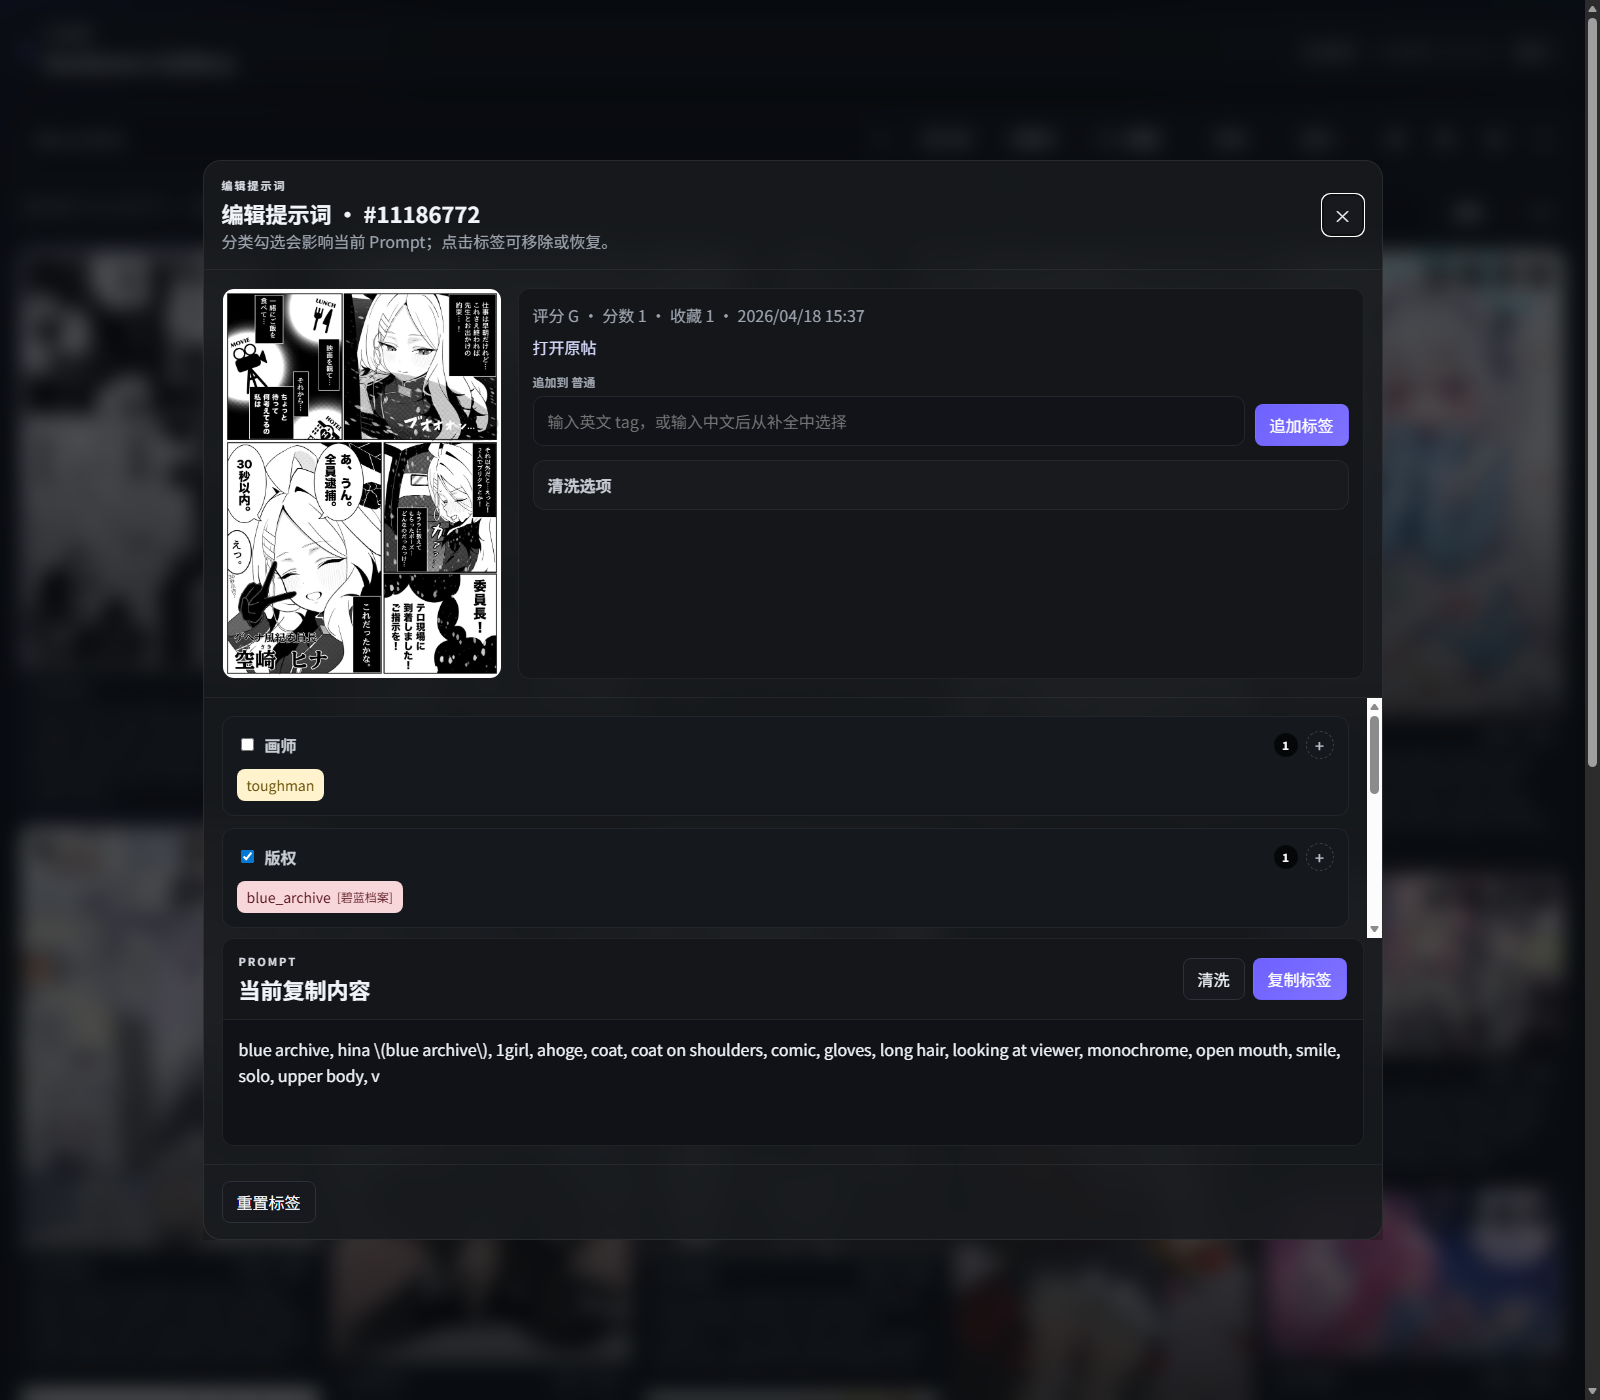
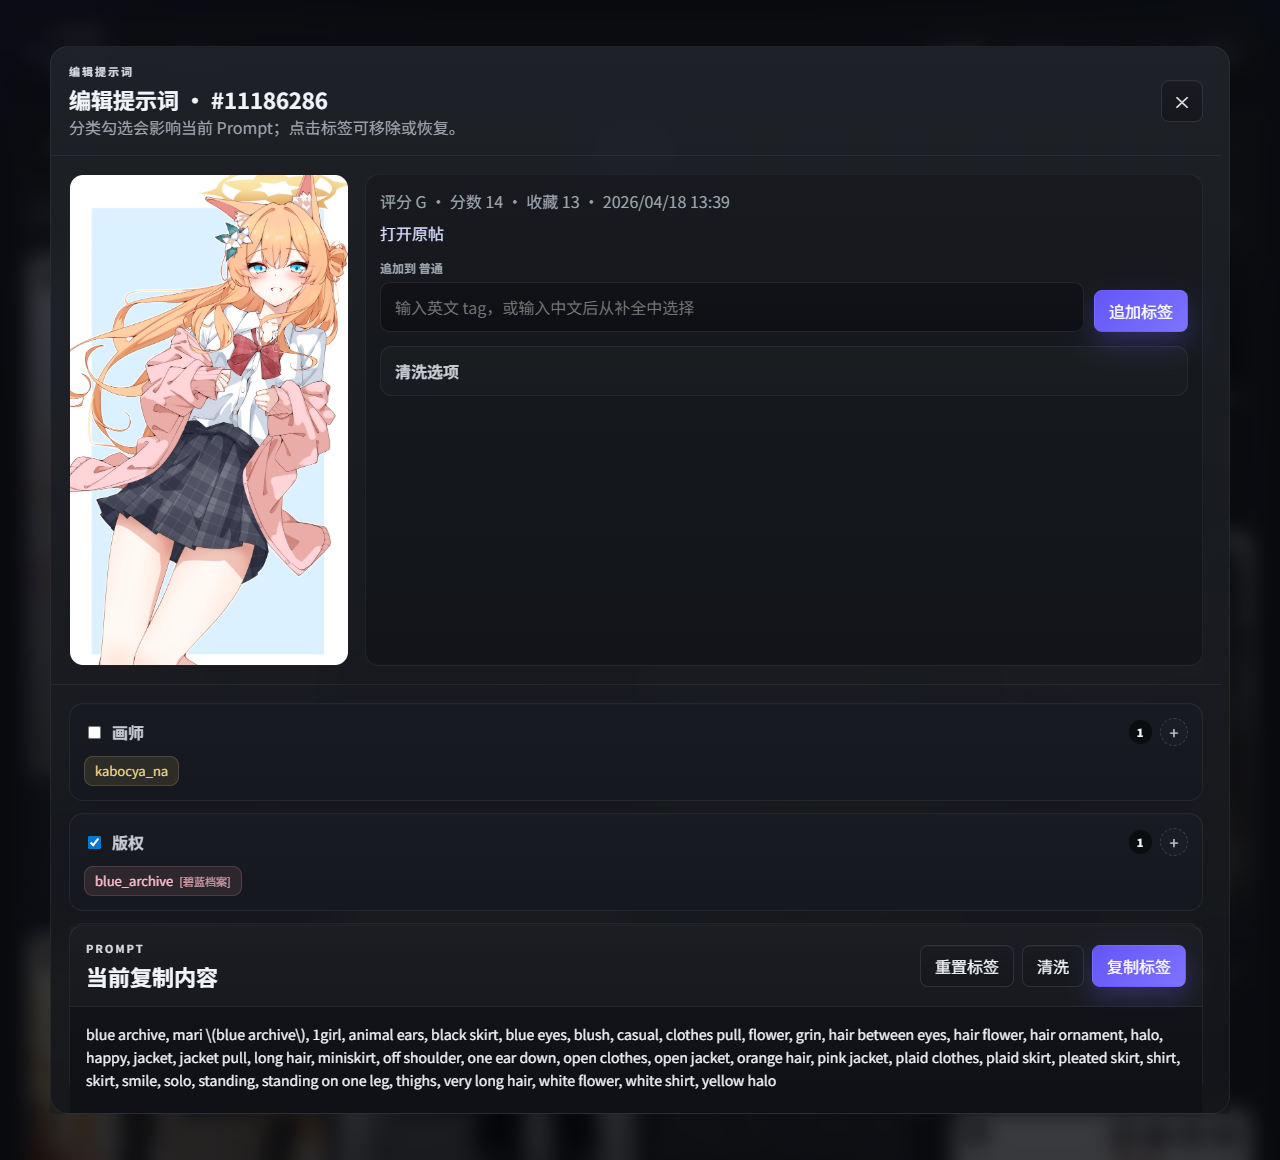
Polish UI and refresh screenshots

diff --git a/app/static/styles.css b/app/static/styles.css
@@ -5,9 +5,13 @@
     --panel-strong: #202328;
     --panel-soft: #17191d;
     --panel-border: #2d3138;
+    --panel-border-soft: rgba(255, 255, 255, 0.06);
+    --panel-border-strong: rgba(255, 255, 255, 0.11);
     --text: #f1f4f8;
     --muted: #9ea5af;
     --muted-strong: #c7cbd2;
+    --surface-highlight: rgba(255, 255, 255, 0.045);
+    --surface-shadow: 0 18px 44px rgba(0, 0, 0, 0.42);
     --accent: #6f61ff;
     --accent-strong: #7f73ff;
     --accent-soft: rgba(111, 97, 255, 0.18);
@@ -104,9 +108,10 @@ a {
 .app-header,
 .gallery-panel,
 .modal-shell {
-    background: rgba(24, 26, 30, 0.88);
-    border: 1px solid rgba(255, 255, 255, 0.06);
-    box-shadow: 0 18px 44px rgba(0, 0, 0, 0.42);
+    background:
+        linear-gradient(180deg, rgba(31, 34, 40, 0.92) 0%, rgba(20, 22, 26, 0.9) 100%);
+    border: 1px solid var(--panel-border-soft);
+    box-shadow: var(--surface-shadow);
     backdrop-filter: blur(14px);
 }
 
@@ -115,8 +120,8 @@ a {
     justify-content: space-between;
     align-items: center;
     gap: 16px;
-    padding: 10px 14px;
-    border-radius: 12px;
+    padding: 12px 16px;
+    border-radius: 16px;
 }
 
 .brand-block {
@@ -167,8 +172,8 @@ a {
     min-height: 32px;
     padding: 0 12px;
     border-radius: 999px;
-    border: 1px solid var(--panel-border);
-    background: rgba(255, 255, 255, 0.03);
+    border: 1px solid rgba(255, 255, 255, 0.08);
+    background: rgba(255, 255, 255, 0.035);
     color: var(--muted-strong);
     font-size: 13px;
 }
@@ -195,8 +200,8 @@ a {
 
 .gallery-panel {
     min-height: calc(100vh - 120px);
-    padding: 12px;
-    border-radius: 16px;
+    padding: 14px;
+    border-radius: 18px;
 }
 
 .toolbar-row,
@@ -269,7 +274,7 @@ a {
 #prompt-editor {
     width: 100%;
     border: 1px solid rgba(255, 255, 255, 0.08);
-    background: #111318;
+    background: linear-gradient(180deg, rgba(17, 19, 24, 0.98) 0%, rgba(14, 16, 20, 0.98) 100%);
     color: var(--text);
     border-radius: var(--radius-md);
     padding: 12px 14px;
@@ -292,7 +297,7 @@ a {
     outline: none;
     border-color: rgba(111, 97, 255, 0.7);
     box-shadow: 0 0 0 3px rgba(111, 97, 255, 0.14);
-    background: #12141a;
+    background: linear-gradient(180deg, rgba(19, 21, 28, 0.98) 0%, rgba(17, 19, 24, 0.98) 100%);
 }
 
 .clear-search-button {
@@ -313,10 +318,11 @@ a {
 .icon-button,
 .modal-close {
     border: 1px solid var(--panel-border);
-    background: #17191e;
+    background: linear-gradient(180deg, rgba(25, 27, 33, 0.96) 0%, rgba(21, 23, 28, 0.96) 100%);
     color: var(--text);
     cursor: pointer;
-    transition: transform 0.18s ease, border-color 0.18s ease, background-color 0.18s ease, color 0.18s ease;
+    box-shadow: inset 0 1px 0 rgba(255, 255, 255, 0.03);
+    transition: transform 0.18s ease, border-color 0.18s ease, background-color 0.18s ease, color 0.18s ease, box-shadow 0.18s ease;
 }
 
 .toolbar-button {
@@ -329,15 +335,17 @@ a {
 .icon-button:hover,
 .modal-close:hover {
     transform: translateY(-1px);
-    border-color: rgba(255, 255, 255, 0.22);
+    border-color: rgba(255, 255, 255, 0.2);
+    box-shadow: inset 0 1px 0 rgba(255, 255, 255, 0.05), 0 10px 20px rgba(0, 0, 0, 0.22);
 }
 
 .toolbar-button.is-active,
 .icon-button.is-active,
 .accent-button {
-    background: linear-gradient(135deg, var(--accent), var(--accent-strong));
+    background: linear-gradient(135deg, #6456f6 0%, #7d73ff 100%);
     border-color: transparent;
     color: #ffffff;
+    box-shadow: 0 12px 26px rgba(111, 97, 255, 0.28);
 }
 
 .icon-button,
@@ -409,9 +417,9 @@ a {
     min-width: 240px;
     padding: 8px;
     border-radius: 12px;
-    border: 1px solid rgba(255, 255, 255, 0.06);
-    background: rgba(22, 24, 28, 0.98);
-    box-shadow: 0 18px 32px rgba(0, 0, 0, 0.42);
+    border: 1px solid rgba(255, 255, 255, 0.07);
+    background: linear-gradient(180deg, rgba(25, 27, 33, 0.98) 0%, rgba(18, 20, 24, 0.98) 100%);
+    box-shadow: 0 18px 32px rgba(0, 0, 0, 0.46);
 }
 
 .autocomplete-list {
@@ -519,8 +527,8 @@ a {
 .editor-side-panel,
 .library-content-empty {
     break-inside: avoid;
-    background: #14161a;
-    border: 1px solid rgba(255, 255, 255, 0.06);
+    background: linear-gradient(180deg, rgba(23, 25, 30, 0.98) 0%, rgba(19, 21, 25, 0.98) 100%);
+    border: 1px solid var(--panel-border-soft);
     border-radius: 14px;
 }
 
@@ -534,7 +542,7 @@ a {
 .gallery-card:hover {
     transform: translateY(-2px);
     border-color: rgba(111, 97, 255, 0.4);
-    box-shadow: 0 18px 28px rgba(0, 0, 0, 0.32);
+    box-shadow: 0 20px 32px rgba(0, 0, 0, 0.32);
 }
 
 .gallery-card.is-selected {
@@ -578,7 +586,7 @@ a {
     content: "";
     position: absolute;
     inset: 0;
-    background: linear-gradient(180deg, transparent 45%, rgba(0, 0, 0, 0.52) 100%);
+    background: linear-gradient(180deg, rgba(8, 10, 14, 0.04) 0%, rgba(0, 0, 0, 0.58) 100%);
     pointer-events: none;
 }
 
@@ -602,7 +610,7 @@ a {
     min-height: 24px;
     padding: 0 8px;
     border-radius: 999px;
-    background: rgba(0, 0, 0, 0.68);
+    background: rgba(7, 9, 12, 0.78);
     color: #ffffff;
     font-size: 11px;
     font-weight: 700;
@@ -619,7 +627,7 @@ a {
     height: 28px;
     border-radius: 999px;
     border: none;
-    background: rgba(0, 0, 0, 0.72);
+    background: rgba(8, 10, 14, 0.74);
     color: #fff;
     cursor: pointer;
     transition: transform 0.18s ease, background-color 0.18s ease;
@@ -636,6 +644,7 @@ a {
 
 .gallery-card-footer {
     padding: 10px 12px 12px;
+    background: linear-gradient(180deg, rgba(20, 22, 27, 0.94) 0%, rgba(17, 19, 24, 0.98) 100%);
 }
 
 .gallery-card-topline {
@@ -669,7 +678,7 @@ a {
 }
 
 .modal-card::backdrop {
-    background: rgba(6, 8, 12, 0.72);
+    background: rgba(6, 8, 12, 0.78);
     backdrop-filter: blur(10px);
 }
 
@@ -734,7 +743,7 @@ a {
 
 .editor-preview-card {
     overflow: hidden;
-    background: #101216;
+    background: linear-gradient(180deg, rgba(16, 18, 22, 0.98) 0%, rgba(11, 13, 17, 0.98) 100%);
     min-height: 280px;
 }
 
@@ -757,6 +766,8 @@ a {
     margin-top: 8px;
     color: #d8dbff;
     text-decoration: none;
+    text-decoration-color: rgba(216, 219, 255, 0.28);
+    text-underline-offset: 3px;
 }
 
 .editor-add-row {
@@ -774,7 +785,7 @@ a {
 .cleaning-panel {
     border: 1px solid rgba(255, 255, 255, 0.06);
     border-radius: 12px;
-    background: rgba(255, 255, 255, 0.02);
+    background: linear-gradient(180deg, rgba(255, 255, 255, 0.02) 0%, rgba(255, 255, 255, 0.015) 100%);
 }
 
 .cleaning-panel summary {
@@ -822,7 +833,8 @@ a {
 
 .tag-section {
     padding: 14px;
-    background: #15181c;
+    background: linear-gradient(180deg, rgba(24, 27, 32, 0.98) 0%, rgba(21, 24, 29, 0.98) 100%);
+    box-shadow: inset 0 1px 0 rgba(255, 255, 255, 0.02);
 }
 
 .tag-section-header {
@@ -851,8 +863,8 @@ a {
     width: 28px;
     height: 28px;
     border-radius: 999px;
-    border: 1px dashed rgba(255, 255, 255, 0.18);
-    background: transparent;
+    border: 1px dashed rgba(255, 255, 255, 0.14);
+    background: rgba(255, 255, 255, 0.01);
     color: var(--muted-strong);
     cursor: pointer;
 }
@@ -874,17 +886,18 @@ a {
     display: inline-flex;
     align-items: center;
     gap: 6px;
-    padding: 6px 10px;
+    padding: 5px 10px;
     border: 1px solid transparent;
-    border-radius: 8px;
+    border-radius: 9px;
     cursor: pointer;
-    font-size: 14px;
-    transition: transform 0.12s ease, filter 0.12s ease, opacity 0.12s ease;
+    font-size: 13px;
+    line-height: 1.4;
+    transition: transform 0.12s ease, filter 0.12s ease, opacity 0.12s ease, border-color 0.12s ease;
 }
 
 .tag-chip:hover {
     transform: translateY(-1px);
-    filter: brightness(1.05);
+    filter: brightness(1.08);
 }
 
 .tag-chip.is-disabled {
@@ -892,37 +905,37 @@ a {
 }
 
 .tag-chip small {
-    font-size: 12px;
-    opacity: 0.9;
+    font-size: 11px;
+    opacity: 0.76;
 }
 
 .tag-chip.tag-category-artist {
-    background: rgba(255, 219, 127, 0.12);
-    border-color: rgba(255, 219, 127, 0.18);
+    background: rgba(255, 219, 127, 0.1);
+    border-color: rgba(255, 219, 127, 0.16);
     color: #f2d487;
 }
 
 .tag-chip.tag-category-copyright {
-    background: rgba(255, 170, 185, 0.12);
-    border-color: rgba(255, 170, 185, 0.18);
+    background: rgba(255, 170, 185, 0.1);
+    border-color: rgba(255, 170, 185, 0.16);
     color: #ffc0cd;
 }
 
 .tag-chip.tag-category-character {
-    background: rgba(149, 224, 175, 0.12);
-    border-color: rgba(149, 224, 175, 0.18);
+    background: rgba(149, 224, 175, 0.1);
+    border-color: rgba(149, 224, 175, 0.16);
     color: #9fe2b5;
 }
 
 .tag-chip.tag-category-general {
-    background: rgba(172, 196, 255, 0.12);
-    border-color: rgba(172, 196, 255, 0.2);
+    background: rgba(172, 196, 255, 0.1);
+    border-color: rgba(172, 196, 255, 0.16);
     color: #acc4ff;
 }
 
 .tag-chip.tag-category-meta {
-    background: rgba(255, 255, 255, 0.08);
-    border-color: rgba(255, 255, 255, 0.12);
+    background: rgba(255, 255, 255, 0.06);
+    border-color: rgba(255, 255, 255, 0.1);
     color: #e7eaf0;
 }
 
@@ -936,6 +949,7 @@ a {
 
 .prompt-panel-header {
     padding: 14px 16px;
+    background: linear-gradient(180deg, rgba(255, 255, 255, 0.02) 0%, rgba(255, 255, 255, 0.01) 100%);
 }
 
 .prompt-panel-actions {
@@ -954,8 +968,9 @@ a {
     resize: vertical;
     padding: 16px;
     padding-bottom: 24px;
-    background: #101217;
+    background: linear-gradient(180deg, rgba(17, 19, 24, 0.98) 0%, rgba(13, 15, 19, 0.98) 100%);
     color: var(--text);
+    font-size: 14px;
     line-height: 1.65;
     caret-color: var(--accent);
     overflow-y: auto;
@@ -1079,7 +1094,7 @@ a {
     padding: 12px;
     white-space: pre-wrap;
     word-break: break-word;
-    background: #101217;
+    background: linear-gradient(180deg, rgba(17, 19, 24, 0.98) 0%, rgba(13, 15, 19, 0.98) 100%);
     border-radius: 10px;
     color: var(--muted-strong);
     font-family: inherit;
